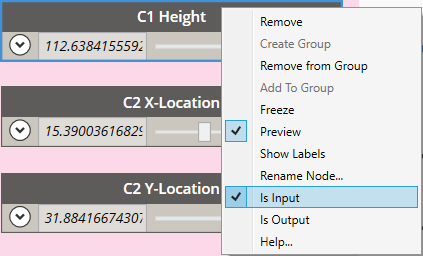
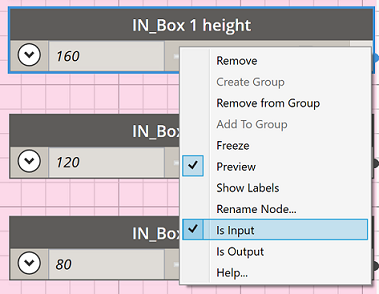
Updated setting up a graph

diff --git a/03-hello-GD-For-Revit/03-02_setting-up-a-graph-for-GD-For-Revit.md b/03-hello-GD-For-Revit/03-02_setting-up-a-graph-for-GD-For-Revit.md
@@ -2,13 +2,12 @@
 
 ## Inputs
 
-To set up a Dynamo graph for use with generative design tools, right-click on each node used to drive the graph and ensure that the _`Is Input`_ option is ticked. Renaming the node with a standard approach such as _`IN_description`_ will help to distinguish these inputs in the Create Study dialog.
+To set up a Dynamo graph for use with generative design tools, right-click on each node used to drive the graph and ensure that the _`Is Input`_ option is checked. Renaming the node with a standard approach such as _`IN_description`_ will help to distinguish these inputs in the Create Study dialog.
 
-1. Right-click on each node used to drive the graph and ensure that the 'Is Input' option is ticked. 
+1. Right-click on each node used to drive the graph and ensure that the 'Is Input' option is checked.
+2. Set 
 
-Renaming the node with a standard approach such as _`IN_description`_ will help to distinguish these inputs in Generative Design.
-
-_Note: Currently all inputs must be 'Number' slider nodes._
+_Note: Currently all inputs must be 'Number' slider nodes or 'Boolean' nodes._
 
 <img src="../assets/hello/setting1.png" style="width:200px;"/>
 
@@ -34,7 +33,7 @@ To create an export to use with Generative Design, please do the following:
 
 1. In Dynamo, navigate to the toolbar and select Generative Design &gt; Export for Generative Design. Generative Design will then create a copy of your graph which will be available to launch.
 
-<img src="../assets/hello/setting21.png" style="width:200px;"/>
+<img src="../assets/hello/setting23.png" style="width:200px;"/>
 
 _Note: Graphs with the same name will be overwritten._
 
@@ -46,7 +45,7 @@ To launch Generative Design, please do the following:
 
 1. In Dynamo, navigate to the toolbar and select Generative Design &gt; Create Study.
 
-<img src="../assets/hello/setting23.png" style="width:200px;"/>
+<img src="../assets/hello/setting21.png" style="width:200px;"/>
 
 Once the Create Study dialog has launched, select a study that you have exported from Dynamo.
 
